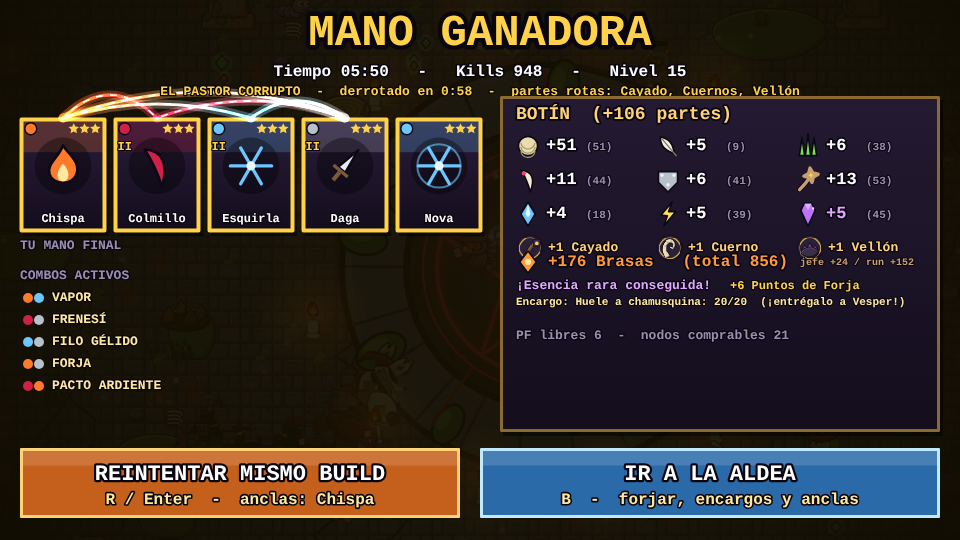
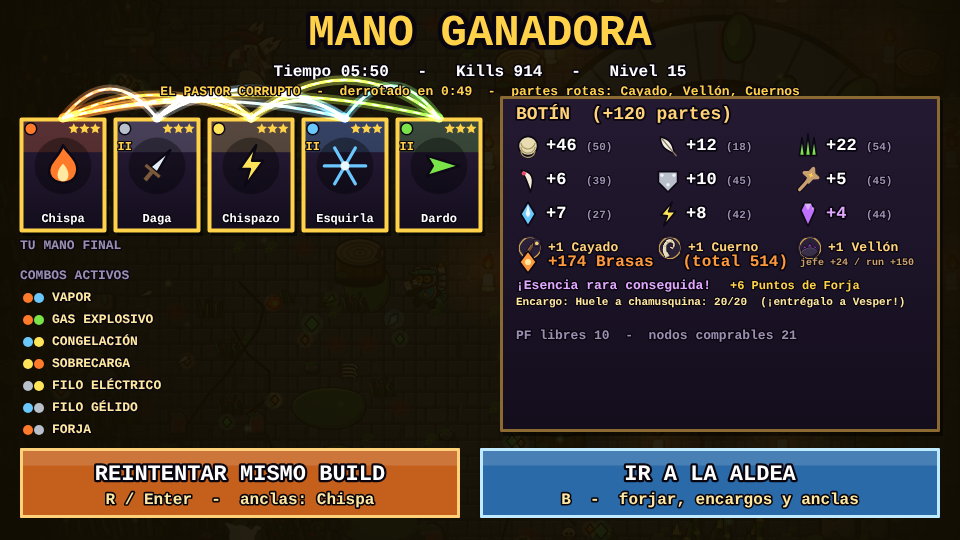
Swarm Hand: Fase 2b de la aldea (6 árboles, Archivista, cocina, Lanudo, 21 encargos, guardado v3)
Claude-Session: https://claude.ai/code/session_01SEMe6xkUsnkQXVwvcKxXxh

diff --git a/games/card-swarm/src/boss_letea.js b/games/card-swarm/src/boss_letea.js
@@ -211,7 +211,7 @@
 
   // ------------------------------------------------------------------ ranuras de ataque (3 cabezas + cuerpo en paralelo)
   H.fight = function (e, dt) {
-    var a = A(), p = PL(), PH = e.def.phases[e.phase - 1], k, sl, P = pressure(), maxP = e.phase === 3 ? 3 : 2;
+    var a = A(), p = PL(), PH = e.def.phases[e.phase - 1], k, sl, P = pressure(), maxP = 3;
     var sub = a.slots.body.A && a.slots.body.A.name === 'l_sumersion';
     for (k in a.slots) {
       sl = a.slots[k];
@@ -231,7 +231,7 @@
       var A1 = U.makeAtk(e, n, isBody ? null : { head: k });
       sl.A = A1;
       if (!isBody) a.hd[k].hold = true;
-      sl.cadT = isBody ? (e.phase === 1 ? 4500 : e.phase === 2 ? 3800 : 3200) * (KEYS.every(function (kk) { return e.broken[kk]; }) ? 0.6 : 1) : PH.cad;
+      sl.cadT = isBody ? (e.phase === 1 ? 3800 : e.phase === 2 ? 3300 : 2900) * (KEYS.every(function (kk) { return e.broken[kk]; }) ? 0.6 : 1) : PH.cad;
     }
     // el cuerpo sumergido no puede ser objetivo de las cartas (las cabezas sí)
   };
@@ -244,7 +244,7 @@
       n = opts[i];
       if ((S.cds[n] || 0) > 0) continue;
       if (n === 'l_mordisco' && (d > 320 || P >= 2)) continue;
-      if (n === 'l_aliento' && (d < 90 || d > 400)) continue;
+      if (n === 'l_aliento' && (d < 30 || d > 400)) continue;
       e.lastHead = k + n; return n;
     }
     return null;
@@ -267,7 +267,7 @@
 
   // ------------------------------------------------------------------ ataques
   function def(name, o) { o.b = 'letea'; ATKS[name] = o; }
-  def('l_mordisco',   { name: 'Mordisco en picado',  tele: 700,  cd: 4000,  dmg: 22, phases: [1, 2, 3] });
+  def('l_mordisco',   { name: 'Mordisco en picado',  tele: 700,  cd: 3200,  dmg: 22, phases: [1, 2, 3] });
   def('l_acido',      { name: 'Escupitajo ácido',    tele: 900,  cd: 10000, dmg: 8,  phases: [1, 2, 3] });
   def('l_aliento',    { name: 'Aliento helado',      tele: 900,  cd: 9000,  dmg: 14, phases: [1, 2, 3] });
   def('l_rayo',       { name: 'Rayo del cielo',      tele: 1000, cd: 10000, dmg: 22, phases: [1, 2, 3] });
@@ -295,7 +295,7 @@
       return false;
     },
     draw: function (c, e, A0) { Assets.drawBossTele(c, 'lane', A0.ox, A0.oy, { w: A0.w, len: A0.len, a: A0.aim, p: A0.t / A0.tele, fix: A0.t >= A0.fixAt, t: G.time }); },
-    haz: function (e, A0, out) { if (A0.step === 'tele') out.push({ k: 'lane', x: A0.ox, y: A0.oy, a: A0.aim, w: A0.w, len: A0.len, t0: A0.tele - A0.t, t1: A0.tele - A0.t + 450 }); }
+    haz: function (e, A0, out) { if (A0.step === 'tele') out.push({ k: 'lane', x: A0.ox, y: A0.oy, a: A0.aim, w: A0.w, len: A0.len, t0: A0.tele - A0.t, t1: A0.tele - A0.t + 700 }); }
   };
 
   // ---- Escupitajo ácido (cabeza verde): 3 charcos ácidos r 50 durante 6 s (Coro: r 65, 4 s)
@@ -577,6 +577,10 @@
   }
   function drawBand(c, x, dir, w, gaps, p, tele) {
     var y0 = G.WALL, y1 = G.AH - G.WALL, i, ys = [y0];
+    if (ART() && !tele) {   // relleno translúcido bajo el arte: la ola se lee mejor sobre el suelo verde
+      var sg0 = [y0]; gaps.slice().sort(function (a1, b1) { return a1 - b1; }).forEach(function (g) { sg0.push(g - 50, g + 50); }); sg0.push(y1);
+      c.save(); c.fillStyle = 'rgba(60,160,230,0.38)'; for (i = 0; i < sg0.length; i += 2) c.fillRect(x - w / 2, sg0[i], w, sg0[i + 1] - sg0[i]); c.restore();
+    }
     if (ART()) {   // (x,y) = centro del borde delantero; para dir < 0 el marco local va girado 180 grados: se espejan los huecos
       var len = y1 - y0;
       Assets.drawBossBand(c, x + dir * w / 2, (y0 + y1) / 2, dir > 0 ? 0 : Math.PI, len, w, { gaps: gaps.map(function (g) { var s0 = g - 50 - y0, s1 = g + 50 - y0; return dir > 0 ? [s0, s1] : [len - s1, len - s0]; }), style: 'water', p: p, tele: !!tele, t: G.time, alpha: 1 }); return;

diff --git a/games/card-swarm/src/panels.js b/games/card-swarm/src/panels.js
@@ -464,9 +464,10 @@
     });
     if (cur.length > 3) G.txt(c, '+' + (cur.length - 3) + ' más', x + 160, y + 72, 10, '#9a8fb0', 'left');
     var set = Object.keys(N).filter(function (t) { return N[t] >= 2 && t !== 'neutral'; });
-    if (set.length) G.txt(c, 'Set de ' + G.TAGS[set[0]].name + ': a 3 cartas +25 % (nodo de Set en el árbol)', x + 10, y + 126, 9, '#c8b8e8', 'left');
+    if (set.length) G.txt(c, 'Set ' + G.TAGS[set[0]].name + ': a 3 cartas +25 %', x + 10, y + 118, 9, '#c8b8e8', 'left');
     var gain = !isAnchor && G.Save.rank(d.id) ? comboNames(ids.concat([d.id])).filter(function (cb) { return cur.indexOf(cb) < 0; }) : [];
-    G.txt(c, gain.length ? 'Con ' + d.short + ': ' + gain.map(function (cb) { return cb.name; }).join(', ') : (isAnchor ? d.short + ' ya es ancla.' : 'Con ' + d.short + ': sin combo nuevo.'), x + 10, y + 142, 10, gain.length ? '#ffe9a0' : '#8a7f96', 'left');
+    var gt = gain.length ? 'Con ' + d.short + ': ' + gain.map(function (cb) { return cb.name; }).join(', ') : (isAnchor ? d.short + ' ya es ancla.' : 'Con ' + d.short + ': sin combo nuevo.');
+    U.wrap(c, gt, 212, 10).slice(0, 2).forEach(function (ln, k) { G.txt(c, ln, x + 10, y + 132 + k * 13, 10, gain.length ? '#ffe9a0' : '#8a7f96', 'left'); });
   }
 
   // ============================================================= COCINA de Tía Castaña

diff --git a/games/card-swarm/src/boss_karceron.js b/games/card-swarm/src/boss_karceron.js
@@ -234,7 +234,7 @@
     fx.part('explosion', m.x, m.y, 0, 0, 380, { sc: 1.2, add: true, anim: true }); fx.shockwave(m.x, m.y, m.r * 2); fx.shake(4, 140); sfx('explosion', { vol: 0.5, pitch: 1.1 });
     fx.burst(m.x, m.y, 8, '#ffb040', 220, 500, 4, { add: true });
     if (!p.dead && Math.hypot(p.x - m.x, p.y - m.y) <= m.r + 2) hurt(e, m.dmg, 'boss_brasas', { kb: 1.1 });
-    if (m.puddles) for (var i = 0; i < 2; i++) a.puddles.push({ x: m.x + (i ? 28 : -28), y: m.y + (i ? -14 : 16), r: 22, t: 0, life: 3000 });
+    if (m.puddles) a.puddles.push({ x: m.x, y: m.y, r: 26, t: 0, life: 3000 });
   }
 
   // ------------------------------------------------------------------ ataques
@@ -314,7 +314,7 @@
         else { var an = Math.random() * TAU, dd = G.rnd(70, 300); m.x = clampX(p.x + Math.cos(an) * dd); m.y = clampY(p.y + Math.sin(an) * dd); }
         m.imp = A0.abs + 900;
       }
-      if (m.st === 1 && A0.abs >= m.imp) { m.st = 2; impact(e, { x: m.x, y: m.y, r: 55, dmg: 18, puddles: true }); }
+      if (m.st === 1 && A0.abs >= m.imp) { m.st = 2; impact(e, { x: m.x, y: m.y, r: 55, dmg: 18, puddles: i < 2 }); }   // deja 2 charcos de brasas en total (los de los 2 primeros impactos)
     }
   }
   ATK.k_brasas = {

diff --git a/games/card-swarm/src/aldea.js b/games/card-swarm/src/aldea.js
@@ -70,7 +70,6 @@
   A.applySettings = applySettings;
   function flash(t) { if (toastT > 0 && toast) { toastQ.push(t); } else { toast = t; toastT = 3200; } }
   A.flash = flash;
-  A.onCooked = function () { forgedVisit = forgedVisit; };
   A.onForged = function () { forgedVisit = true; };
   A.setPanel = function (p) { panel = p; mode = p ? 'panel' : 'walk'; };
 

diff --git a/games/card-swarm/README.md b/games/card-swarm/README.md
@@ -12,22 +12,73 @@ python3 -m http.server 8123
 ```
 (También funciona abriendo `index.html` directamente.)
 
-## Bucle completo (v3: Aldea, Fase 2a)
+## Bucle completo (v3: Aldea, Fases 2a y 2b)
 **Aldea -> Portal -> Expedición -> Botín (R = repetir sin pasar por la aldea) -> Aldea.** La pantalla principal es **Rescoldo** (`src/aldea.js`), una aldea caminable de una pantalla
 (960x540, escala a cualquier tamaño). Marlo se mueve con WASD / flechas (o el joystick táctil flotante de la mitad izquierda), interactúa con **E / Enter** (o el botón táctil
 HABLAR de 96 px) a menos de 56 px de un NPC, y viaja al Portal con **Tab** (o el botón PORTAL) con un fundido de 0,3 s. Colisiones con los rectángulos de `Assets.VILLAGE.colliders`
 y los límites de la zona caminable. Esc abre el menú (Colección, Ajustes, Borrar progreso con doble pulsación). El arte viene de `assets_village.js` (`Assets.drawVillage`);
 si no existe, se dibuja un fallback de rectángulos. Luz: Día al abrir o tras ganar, Ocaso tras una derrota.
-- **Grum (herrero):** abre la **Forja** (`src/tree.js`), un árbol por pestañas: **Fuego** (12 nodos completos), **Tronco** (Rango de forja II/III, Ceniza viva, Tercera ancla,
-  Pezuñas/Imán/Alforja) y **Clásica** (recetas planas rebalanceadas para las cartas de Hielo, Rayo, Veneno, Sangre, Acero y el Reloj; los demás árboles llegan en la Fase 2b).
-- **Vesper (encargos):** Tablón con 3 encargos fijos (tutorial "Huele a chamusquina": 20 Bombas -> 6 Mecha + 40 Brasas + 1 PF; 40 Polillas; el Coloso Escudero). Solo uno activo; el progreso
-  persiste entre expediciones y se ve en el HUD de la run. El enemigo objetivo pesa **x2,5** en el director (`waves.js`) y su entrada se adelanta a 2:30 virtuales. Son repetibles.
+- **Grum (herrero):** abre la **Forja** (`src/tree.js`), un árbol por pestaña: **Fuego, Hielo, Rayo, Veneno, Sangre y Acero** (11-12 nodos cada uno, Fase 2b) y **Tronco** (Rango de forja II/III, Ceniza viva,
+  Tercera ancla, Pezuñas/Imán/Alforja). La pestaña "Clásica" de la 2a desapareció: todas las cartas con nodo se desbloquean en su árbol (solo el Reloj de arena es gratis desde el inicio).
+- **Vesper (encargos):** Tablón con **3 ofertas rotativas** (fácil / media / de condición) de un pool de 21 encargos (ver "Fase 2b"). Solo uno activo; el progreso persiste entre expediciones y se ve en el HUD de la run.
+  El enemigo objetivo de los encargos de caza pesa **x2,5** en el director (`waves.js`) y su entrada se adelanta a 2:30 virtuales. Son repetibles.
 - **Rufo (mercader):** **Trueque** (3 partes comunes por 1; Hebra 6 por 1; cupo de 4 por expedición, se reinicia al volver de una salida), **Vender** (3 Brasas por parte, Hebra 1; v5, antes 6 / 3) y
   **Comprar** (Tónico de ceniza 80: +40 Ceniza; Imán de bolsillo 120: radio x1,5; parte común 24, cupo 3). Las raras no se truecan ni se venden.
 - **Portal:** mano al salir (anclas), selector 7 / 9 / 10 min, encargo activo, compras pendientes y SALIR. Tras el botín: R reintenta el mismo build, B vuelve a la aldea.
-- **Ulalume (provisional):** colección de las 26 cartas y anclas (hasta que la Fase 2b añada loadouts). **Abuelo Lanudo** y **Tía Castaña**: diálogos de ambiente.
+- **Ulalume (archivista):** colección completa con filtros por etiqueta, anclas con vista previa de combos y 3 loadouts. **Tía Castaña:** platos con buff de expedición. **Abuelo Lanudo:** lore, consejos y logros (ver "Fase 2b").
 - **Anclas:** `G.B.anchorSlots` = 2 (3 con el nodo Tercera ancla). Se eligen en el Archivo de Ulalume o en el Portal. Los otros slots se llenan al subir de nivel con cartas desbloqueadas.
 - **Duración:** 7 / 9 / 10 min (`?len=N` lo fuerza). `G.setLen()` escala jefe, élites, entrada de enemigos, curva del director, HP/daño y Furia mediante `G.vt()`.
+
+## Fase 2b: árboles completos, Archivista, cocina, Lanudo, encargos y vida en la aldea
+Diseño: `DESIGN-v3-aldea.md` secciones B.4 y D. Arte del árbol en `assets_tree.js` (contrato en `ASSETS_API.md`; `tree.js` usa `Assets.drawTreeNode/Link/Tab/Burst/Icon` si existen y, si no, un dibujo propio).
+
+### Los 6 árboles de forja (`src/tree.js`; efectos en `combat.js`, `weapons.js`, `cards.js`, `player.js`)
+Misma plantilla que Fuego: raíz (carta inicial), mejora A/B de la carta inicial (M, T1), 2.ª carta (C, T1), pasivo numérico +8 % (P, T1), carta rara (C, T2), mejora de la 2.ª carta (M, T2), rama excluyente (X, T2, dos nodos hermanos),
+carta épica (C, T3, 1 Esencia), Set (S, T2), mejora de la épica (M, T2) y Maestría (Ma, T4, 2 Esencias). 20 PF por árbol (Sangre: 17), 3200 Brasas y ~140-170 partes (principal + secundaria) con los multiplicadores v5 (`COST_MUL.node` x `L.TREE_PART_MUL`).
+**Resonancia (GDD):** cada nodo de Set da +25 % de daño de su etiqueta con 3 cartas de esa etiqueta en la mano; con 4+ activa una habilidad (la mano tiene 5 slots: 2-3 anclas y el resto se llena al subir de nivel).
+
+| Árbol (cartas) | M A / B | P | X | S (4+) | Ma |
+|---|---|---|---|---|---|
+| **Hielo** (Esquirla, Nova, Cristal, Ventisca) | Esquirla II: atraviesa / ralentiza +15 pts y +1 s; Nova II: radio +25 % / doble pulso (70 %); Ventisca II: radio +30 % / +40 % dps | Aliento gélido +8 % Hielo | Permafrost (todo slow >= 45 %) o Quebradizo (+25 % de daño de cualquier carta a ralentizados) | Cripta de hielo: ralentizados <15 % de vida mueren | Era glacial: cada 60 s aturde 2 s a toda la pantalla (jefes/élites solo ralentiza) |
+| **Rayo** (raíz virtual; Chispazo, Cascabel, **Bobina**, Tormenta) | Chispazo II: cd -15 % / sin pérdida por salto; Tormenta II: 2.º rayo (60 %) / área x1,5 y +10 % | Pararrayos +8 % Rayo | Cadena larga (+1 salto, alcance 150) o Un solo rayo (x2 daño, -1 salto) | Eco de tormenta: cada 8.º rayo se repite | Ojo de la tormenta: cada 10 s un rayo (150) sobre cada élite y jefe |
+| **Veneno** (Dardo, Charco, Bilis, Nube) | Dardo II: 2 stacks por impacto / daño inicial x2; Charco II: dura 8 s / radio +30 %; Nube II: radio +30 % / dps x1,5 | Savia amarga +8 % | Pandemia (el envenenado que muere pasa 2 stacks a 3 vecinos) o Neurotoxina (máx. 5 stacks; a 5 aturde 1 s) | Foco de infección: charco venenoso al morir un envenenado | Plaga: el veneno no expira en élites ni jefes |
+| **Sangre** (Colmillo, Sangría, Lana, **Murciélago**) | Colmillo II: cura x2 / arco 120 grados; Sangría II: 4 marcas / sangrado 7 dps | Ansia +8 % | Vampiro (12 % de curar 3 HP al matar con Sangre) o Berserker (+35 % de daño con <40 % HP) | Pacto de sed: 3 kills = escudo 10 HP (tope 20) | Pacto de sangre: cada 25 kills +15 HP y +10 % daño 5 s |
+| **Acero** (Daga, Púas, Afilar, Hacha) | Daga II: 5 dagas al 80 % / perforantes; Púas II: 4 escudos / empuje x2; Hacha II: tamaño x1,5 / cd -20 % | Temple +8 % | Filo (+15 % crítico) o Bastión (-10 % de daño recibido) | Filo eterno: cada crítico recorta 0,3 s todos los cooldowns (máx. cada 0,4 s) | Tormenta de acero: las dagas rebotan una vez; el Hacha dobla la ida |
+
+- **Cartas nuevas (equilibrio):** **Bobina** (Rayo, rara): torreta de 5 s (máx. 3) que dispara 7 de daño cada 0,4 s al más cercano (alcance 170), cd 6 s -> ~14,6 dps de media, como Chispa/Dardo; **Murciélago** (Sangre, rara): 13 de daño + sangrado, rebota 1 vez (2 a Nv3), cd 1,6 s -> ~16 dps. Se desbloquean en los nodos "Bobina" (Rayo) y "Murciélago" (Sangre) y entran en el pool de ofertas solo si están desbloqueadas.
+- **Nodos de carta heredados:** una carta ya desbloqueada (guardados antiguos) marca su nodo como heredado (gratis, no se puede deshacer). Deshacer un nodo de carta quita la carta de la colección y de las anclas.
+- **`L.TREE_PART_MUL`** (`loot.js`): multiplicador del coste de la parte principal por etiqueta (Fuego 1, Hielo 0,5, Rayo 0,75, Veneno 1, Sangre 0,8, Acero 0,6) según cuánto cae cada parte, para que todos los árboles tarden parecido.
+- **Runs estimadas para un árbol completo** (bot `?speed=20 ?god=1`, 6 runs por duración en cuenta vacía; simulación greedy con trueque y encargos a 1 PF por expedición; "bot" = partes recogidas x1,0, "humano" = x0,7; incluye Rango de forja II y III):
+  Fuego/Hielo/Rayo/Veneno/Acero **~19-20 (bot) / ~26 (humano)** expediciones de 9 min, 24-26 / ~34 con 7 min; Sangre ~16 / ~23 (17 PF). La build mínima (4 nodos) llega en ~5 (bot) / ~7 (humano) runs. El cuello son las Brasas (3200 + 900 de rangos por árbol ~ 18 runs de 227); los PF (~3,3 por run) y las partes no limitan. Con 24 PF de techo: un árbol completo + 4 PF.
+  Medido con el bot (sin cambios en el balance global): 7 min 104 partes/run y 175 Brasas, 9 min 125 y 227 (como en la tabla v5).
+
+### Ulalume (archivista): colección, anclas y loadouts (`panels.js`)
+Colección completa (28 cartas, candado en las bloqueadas) con **filtros por etiqueta** (chips; Q / Tab los cambian), detalle con rango y cómo se desbloquea, y **FIJAR ANCLA** (E). Abajo: la mano al salir (anclas y slots abiertos), un panel de **sinergias de etiqueta** de las
+anclas (cuenta por etiqueta, combos activos y qué combo nuevo daría la carta señalada) y **3 loadouts** (nombre libre de 12 letras con N / toque en el nombre, anclas, duración y plato): GUARDAR (Z) y APLICAR (X; reaplica anclas y duración y cocina el plato si puedes pagarlo). En táctil el nombre se edita con el cuadro nativo del navegador.
+
+### Tía Castaña (cocinera): platos (`G.Cook`, `panels.js`)
+Un plato por expedición (el cupo se reinicia al volver de una salida; el plato preparado se consume al salir y se ve como chip abajo a la izquierda en la run): **Sopa de hebra** (+0,25 HP/s), **Pan de pluma** (+8 % vel.), **Té de brasas** (+10 % XP),
+**Estofado de púas** (-25 % daño de proyectiles), **Guiso de mecha** (-30 % explosivos), **Caldo de placa** (-20 % cuerpo a cuerpo), **Asado de colmillo** (-15 % élites y jefes). Costes: 4-8 partes y 20-60 Brasas. Las resistencias usan `Player.family(src)` (ranged / blast / melee / big). Un loadout puede incluir plato.
+
+### Abuelo Lanudo: lore, consejos y logros (`aldea.js`, `quests.js` `G.Ach`)
+Cada visita cuenta una historia (rota) y ofrece **Consejo** (contextual: debilidades del Pastor / Karceron / Letea según el siguiente jefe sin vencer, combos aún no vistos con su receta, PF sin gastar, Brasas acumuladas, encargo sin aceptar, racha de derrotas, plato, loadouts) y **Logros** (11 recuerdos con texto propio: primera salida, mano ganadora, los 3 jefes, 5 y 12 combos, 8 nodos forjados, árbol completo, 10 encargos, 3 platos). Al vencer a cada jefe cuenta una escena nueva; el resto de NPC añade líneas por jefe vencido (Grum, Vesper, Rufo, Ulalume, Castaña). Sin recompensas materiales: la economía no cambia.
+
+### Encargos de Vesper (`quests.js`)
+Pool de 21 encargos, 8 tipos: **cazar** un enemigo (Bombas, Polillas, Gusanos, Arqueros, Jabalíes, Escuderos, Espectros, Ascuas), **minijefes** (Coloso, Colmena), **bajas totales** (400), **romper 3 partes de jefe** (hook `Quests.onBossPart(bossId, key)`; `Loot.endRun` lo llama por cada parte rota, ganes o pierdas),
+**ganar con una etiqueta** (3+ cartas de esa etiqueta en la mano final; 6 variantes), **sobrevivir N s sin recibir daño** (45 / 90; `Loot.noteHit` desde `Player.hurt`, progreso en vivo en el HUD) y **ganar con duración de 7 min**. Tiers: fácil (1 PF, 40-60 Brasas, 6-20 partes), medio (1-2 PF, 90-110 Brasas), difícil (2 PF, 150-170 Brasas, +1 Esencia rara la primera vez en los de condición).
+**Rotación:** el Tablón muestra 3 ofertas (una fácil, una media, una de condición) sembradas con el día (UTC) y el nº de expediciones, así que cambia al volver de cada salida y cada día; el encargo activo se queda aparte. El tutorial de las Bombas se ofrece mientras no lo hayas hecho. Repetir: partes y Brasas x0,5, PF a `pfRepeat`.
+
+### Vida en la aldea
+NPC con **emotes** al volver (corazón / '!' / moneda / destello tras ganar, '...' / '?' / gota tras perder; algunos hacen la animación `happy`), **ladridos** contextuales al acercarte (Grum con mejoras listas, Vesper con encargo para cobrar o Tablón nuevo, Castaña con ingredientes, Ulalume sin loadouts, Lanudo con logro nuevo; máx. 1 cada 25 s por NPC),
+**marcas "!"**: Vesper (verde = entregable, dorada = Tablón rotado desde tu última visita), **Grum (verde con el número de mejoras forjables)**, Lanudo (logro nuevo) y Castaña (puedes cocinar); aviso al llegar ("Grum tiene N mejoras listas"), cola de avisos y **Noche** tras 3 derrotas seguidas o cada 5 expediciones.
+Las pestañas de la forja muestran un punto verde con el nº de nodos comprables, los PF usados y "COMPLETO".
+
+### Guardado v3 y migración
+`swarmhand.save` pasa a v3: `loadouts` (3 slots), `pending.dish` / `shop.dish`, `ach`, `combosSeen`, `cooked`, `lossStreak`. Migración v1 -> v2 -> v3 sin perder nada (partes, Brasas, rangos, nodos, PF, encargos, flags, jefes vencidos); antes de migrar copia el guardado antiguo en `swarmhand.save.v<n>`; guardado corrupto = cuenta nueva (try/catch) y los campos que falten se rellenan con valores por defecto.
+
+### Pruebas de la Fase 2b (Playwright + Chromium; capturas en `studio/docs/capturas-aldea-2b/`)
+Flujo aldea -> Vesper -> forja (varias etiquetas, ramas excluyentes, reespecializar) -> Ulalume (filtro, anclas, loadout guardado / renombrado / aplicado) -> Castaña (plato) -> Lanudo -> Portal -> expedición con bot -> botín -> aldea (emotes, marcas) -> nueva expedición con el plato en el HUD, con 0 errores de consola,
+persistencia tras recargar, migración v2 -> v3 y guardado roto, y la versión táctil a 844x390 (joystick, HABLAR, forja, deslizar entre pestañas, deshacer, archivo, cocina, tablón, Portal). Cada árbol completo en sus dos variantes A/B se ha jugado 150 s de partida con el bot (con jefe, `?god=1`), más pruebas unitarias de cada efecto (Era glacial, Cripta, Ojo de la tormenta, Neurotoxina, Plaga, Pandemia, Berserker, Sed, Pacto, Bastión) y las peleas de los 3 jefes con las cartas nuevas.
 
 ### Árbol de forja y Puntos de Forja (PF)
 - Cada nodo cuesta **PF + partes + Brasas** (tabla base `L.NODE_TIER` en `loot.js` x `L.COST_MUL.node` = partes x0,8 y Brasas x5, v5: T1 1 PF 8/4 partes 150 Brasas; T2 2 PF 13/6 300; T3 3 PF 20/8 500 + 1 Esencia; T4 4 PF 28/10 750 + 2 Esencias; Rango II 300 Brasas, Rango III 600).
@@ -37,10 +88,10 @@ si no existe, se dibuja un fallback de rectángulos. Luz: Día al abrir o tras g
   Compensación de 2 PF al migrar de v1.
 - **Reespecializar:** botón DESHACER en un nodo (él y sus dependientes: 60 Brasas por PF devuelto, v5) o REESPECIALIZAR el árbol (400 Brasas); devuelve los PF y el **50 % de las partes**; el
   **primer reespecializado es gratis**. Quitar un nodo de carta quita la carta de la colección y de las anclas. Los nodos heredados de v1 no se pueden deshacer.
-- Efectos reales en la run (`G.Tree.fx`, leídos por `cards.js`, `combat.js`, `weapons.js`, `player.js`): Pavesa (quemadura +2 s y +30 %), Ráfaga (cooldown de Chispa -15 %), Metralla (3 fragmentos de 8),
+- Efectos reales en la run de Fuego (`G.Tree.fx`, leídos por `cards.js`, `combat.js`, `weapons.js`, `player.js`; los de los otros 5 árboles están en la tabla de la Fase 2b): Pavesa (quemadura +2 s y +30 %), Ráfaga (cooldown de Chispa -15 %), Metralla (3 fragmentos de 8),
   Napalm (suelo ardiente 2 s, 4 dps, radio 40), Pulmón (+8 % Fuego), Cenizas ardientes (fuego 3 s al morir un quemado), Fundición (escudo del Escudero x0,5 y +15 % a élites/jefe), Corona (3 llamas),
   Cometa (órbita +25 % y +20 % daño), Emblema (3 cartas Fuego: +25 % daño; 4+: Pira, las quemaduras se propagan), Corazón de brasa, Ceniza viva (+20 Ceniza), Tercera ancla.
-- Teclas del panel: flechas mover, **F** forjar / elegir A, **G** elegir B, **U** deshacer nodo, **R** reespecializar, **Q/E** o 1-3 cambian de pestaña, Esc sale. Táctil: tocar un nodo lo selecciona,
+- Teclas del panel: flechas mover, **F** forjar / elegir A, **G** elegir B, **U** deshacer nodo, **R** reespecializar, **Q/E** o 1-7 cambian de pestaña, Esc sale. Táctil: tocar un nodo lo selecciona,
   deslizar en horizontal cambia de pestaña.
 
 ### Economía (v5; histórico en `DESIGN-v3-aldea.md` sección C)
@@ -52,7 +103,7 @@ y su faucet por run (~175 / 226 / 254 a 7 / 9 / 10 min) alcanza para ~1 craft o 
 - **Brasas por run:** `Brasas = 1,5 % de la Ceniza + 18 x (m + 0,04 m^2)` (m = minutos del reloj de la run, `L.BRASAS_MIN` / `L.BRASAS_GROW`; la run larga rinde más que proporcionalmente) + jefe (`DEFS.pastor.brasas` **12** + 4 por parte rota; antes 150 + 40) + 0 por ganar (`L.BRASAS_WIN`; antes 12 % + 10/min + 40).
 - **PF:** sin cambios en costes ni techo (24); la fuente nueva son los fragmentos de minijefe (+1 PF por run si caen los dos). Con ~3 PF por run el cuello son las Brasas, no los PF.
 - **Trueque y tienda (coherentes con la escasez):** trueque 3:1 (Hebra 6:1) y cupos 4 / 3 sin cambios; **vender** baja a 3 Brasas por parte (Hebra 1; antes 6 / 3) para que vender el sobrante no duplique el faucet; tienda sin cambios (Tónico 80, Imán 120, parte 24); reespecializar 60 Brasas por PF o 400 el árbol (antes 40 / 250). Encargos repetidos: partes y Brasas x0,5 (`Quests.REPEAT_MUL`).
-- **Guardado v2** (`swarmhand.save`, `src/save.js`): partes, Brasas, rangos, anclas, PF (+ `pf.frag`), nodos y elecciones, encargos, cupos de Rufo, compras pendientes, flags. Migración automática desde v1; guardado corrupto = empezar de cero (try/catch).
+- **Guardado v3** (`swarmhand.save`, `src/save.js`; el v2 se migra solo, ver 'Fase 2b'): partes, Brasas, rangos, anclas, PF (+ `pf.frag`), nodos y elecciones, encargos, cupos de Rufo, compras pendientes, flags. Migración automática desde v1; guardado corrupto = empezar de cero (try/catch).
 
 | Medido con el bot (8 runs por duración, mismas condiciones) | 7 min antes | 7 min ahora | 9 min antes | 9 min ahora | 10 min antes | 10 min ahora |
 |---|---|---|---|---|---|---|
@@ -104,7 +155,7 @@ Solo cambia el DIBUJO de la expedición; posiciones, colisiones, daño, distanci
 | Táctil | toque = clic; joystick flotante a la izquierda (aldea y expedición); botón HABLAR 96 px; deslizar = cambiar pestaña |
 
 ## Contenido
-- 26 cartas (16 de ataque + 10 pasivas; el GDD original listaba 28, Bobina y Murciélago no se implementaron), 6 etiquetas (Fuego, Hielo, Rayo, Veneno, Sangre, Acero) + Neutro.
+- **28 cartas** (18 de ataque + 10 pasivas): las 26 de siempre + **Bobina** (Rayo, torreta) y **Murciélago** (Sangre, persigue y rebota) de la Fase 2b (las 28 del GDD original), 6 etiquetas (Fuego, Hielo, Rayo, Veneno, Sangre, Acero) + Neutro.
 - 12 combos: VAPOR, GAS EXPLOSIVO, CONGELACIÓN, SOBRECARGA, SANGRE ENVENENADA, FRENESÍ, FILO ELÉCTRICO, FILO GÉLIDO, FORJA, PLAGA CONGELADA, PACTO ARDIENTE, DESCARGA TÓXICA.
 - Estados con tinte: quemado (naranja), ralentizado (azul), veneno (verde, apila), sangrado (rojo), aturdido (amarillo).
 - Enemigos (entrada): Gusano 0:00, Arquero 0:45, Espinoso 1:30 (abanico de 3 espinas), Jabalí 2:00, Escudero 2:45 (escudo frontal x0.2: flanquea o usa área/orbitales/estados),
@@ -132,13 +183,13 @@ Solo cambia el DIBUJO de la expedición; posiciones, colisiones, daño, distanci
 - Consola: `G.Enemies.spawn('blinker', x, y)` crea cualquier tipo (`fanner shield moth sower blinker scorcher mini_bulwark mini_hive boss`).
 - `?biome=cripta|asfodelo` cambia el fondo (y fuerza el destino).
 - **Jefes v4:** `?boss=pastor` salta directo a la pelea (con intro; `&nointro=1` la omite), `?peligro=<n>` (1-5; solo Peligro I tiene UI), `&phase=2|3` empieza en esa fase, `&hp=0.3` fija el HP (fracción), `&hpcal=<n>` sustituye la calibración de HP, `&hand=spark:3,ember:2` carga una mano de prueba (cartas:nivel), `&dbg=1` cuenta el daño por fuente (`boss_salto`, `boss_pisoton`...). Consola: `G.Boss.info()`, `G.Boss.force('salto')`, `G.Boss.breakKey('cuernos')`, `G.Boss.gate()`, `G.Boss.hazards()` (telegrafías activas, lo que usa el bot).
-- `?reset=1` borra el guardado (ojo: se borra en cada recarga mientras esté en la URL). `?pf=<n>` añade Puntos de Forja (techo 24). `?give=wick:20,frost:5,brasas:100` (o `all:30`) añade partes/Brasas; partes: `thread feather spine fang plate wick frost static rare`.
+- `?quests=bombs,boars,clean45` fuerza las 3 ofertas del Tablón (ids en `Quests.DEFS`; pruebas). `?reset=1` borra el guardado (ojo: se borra en cada recarga mientras esté en la URL). `?pf=<n>` añade Puntos de Forja (techo 24). `?give=wick:20,frost:5,brasas:100` (o `all:30`) añade partes/Brasas; partes: `thread feather spine fang plate wick frost static rare`.
 - `?view=iso` activa la vista inclinada tipo Hades (`?view=flat` la plana); ver su sección.
 - `?len=7` fuerza la duración de la run en minutos (sin tocar el guardado).
 
 ## Estructura
 `src/main.js` núcleo y balance (`G.B`: tabla de enemigos con coste, peso, entrada y `maxAlive`) · `player.js` (ralentización `p.slowT`) · `enemies.js` (IA, zonas `G.zones` con `team:'e'`, telegrafías) · `waves.js` (director) · `combat.js` (daño, estados, combos, gemas) ·
-`weapons.js` (armas auto-fire) · `cards.js` (catálogo, mano, oferta filtrada por colección, anclas, dibujo de cartas) · `loot.js` (tabla de balance de botín/forja) · `save.js` (localStorage v2 con migración) · `aldea.js` (aldea, NPCs, movimiento) · `dialog.js` (burbujas) · `panels.js` (Tablón, Rufo, Portal, Archivo, menú) · `tree.js` (árbol de forja) · `quests.js` (encargos) · `base.js` (pantalla de botín y lanzador) · `assets_village.js` (arte de la aldea) · `assets_ui.js` (iconos de partes y botones por código) · `boss.js` (jefes v4: fases, ataques, partes, intro, barra, arena) · `assets_boss.js` (arte del Pastor, solo dibujo) · `hud.js` · `fx.js` · `sfx.js` (SFX por etiqueta y stinger) · `assets.js` (arte y audio procedural; ver `ASSETS_API.md`).
+`weapons.js` (armas auto-fire) · `cards.js` (catálogo, mano, oferta filtrada por colección, anclas, dibujo de cartas) · `loot.js` (tabla de balance de botín/forja) · `save.js` (localStorage v3 con migración v1/v2) · `aldea.js` (aldea, NPCs, movimiento) · `dialog.js` (burbujas) · `panels.js` (Tablón, Rufo, Portal, Archivo/loadouts, cocina `G.Cook`, logros, menú) · `tree.js` (7 árboles de forja) · `quests.js` (encargos y logros `G.Ach`) · `base.js` (pantalla de botín y lanzador) · `assets_village.js` (arte de la aldea) · `assets_ui.js` (iconos de partes y botones por código) · `boss.js` (jefes v4: fases, ataques, partes, intro, barra, arena) · `assets_boss.js` (arte del Pastor, solo dibujo) · `hud.js` · `fx.js` · `sfx.js` (SFX por etiqueta y stinger) · `assets.js` (arte y audio procedural; ver `ASSETS_API.md`).
 
 ## Jefes v4 (fase J1): El Pastor Corrupto
 Lógica en `src/boss.js` (arte en `assets_boss.js`, API en `ASSETS_API.md`). Diseño: `DESIGN-v4-jefes.md`. Cambios en otros módulos: `enemies.js` (el jefe vive en `G.enemies`, sus partes son entidades hijas `type:'bosspart'`; troncos bloquean proyectiles; `G.frozen` en la intro), `combat.js` (hooks `Boss.mulIn/afterHit/dealPart` en `deal` y `dot`), `waves.js` (director por fase), `hud.js`, `loot.js`/`save.js`/`base.js`/`panels.js` (trofeos, recompensas, destino del Portal), `player.js` (troncos, invulnerable en la intro), `main.js` (reloj `G.runT`, cámara con zoom).
